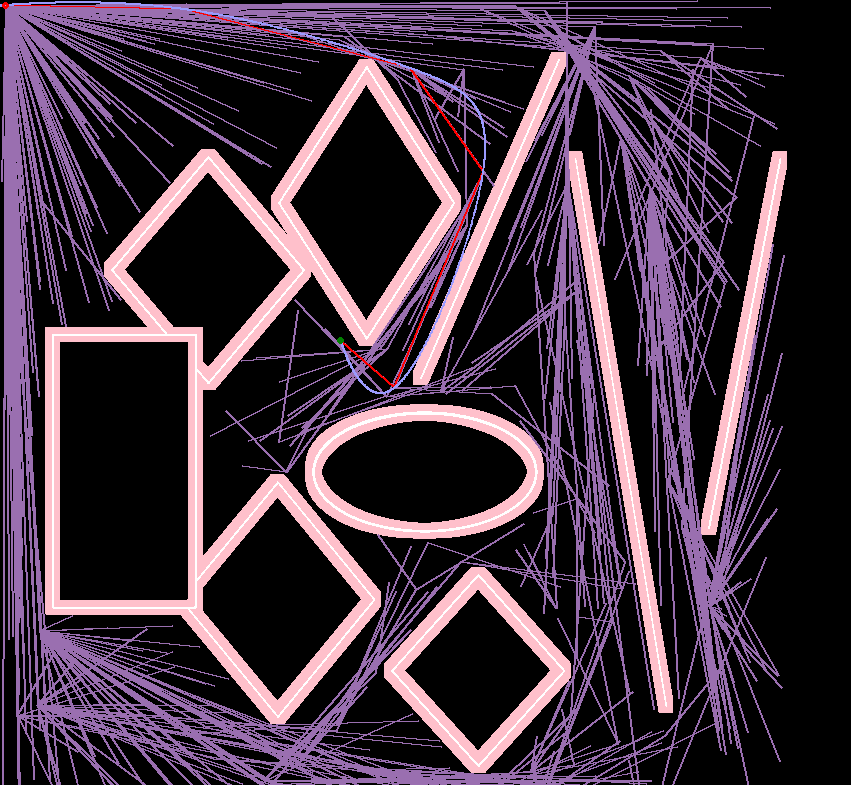
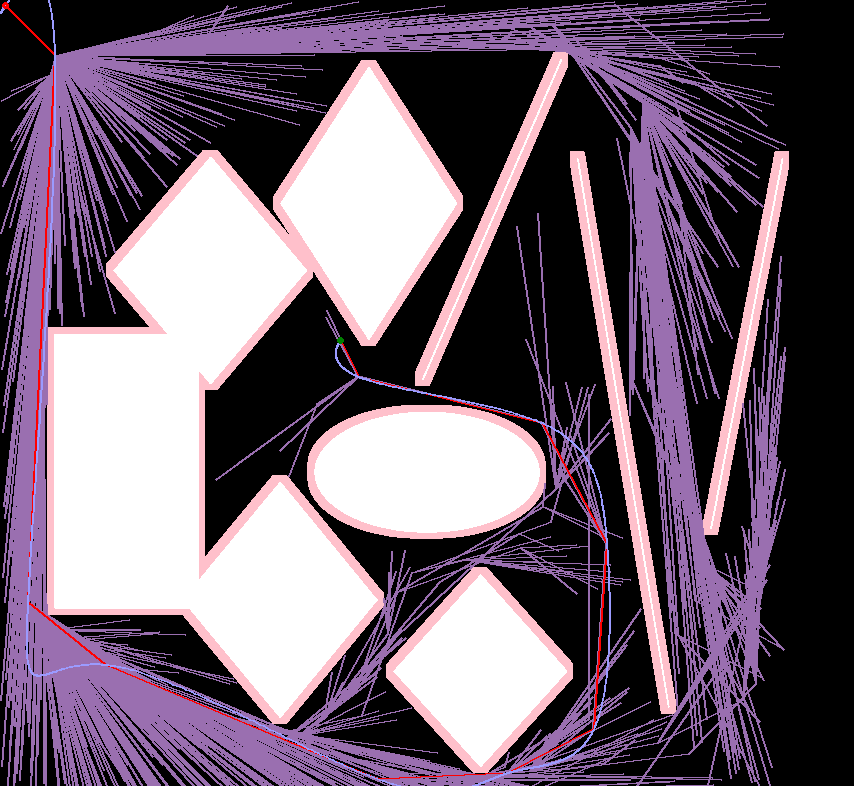
dumb angle check for global planner

diff --git a/local_sim/path.py b/local_sim/path.py
@@ -1,10 +1,7 @@
-import math
-
 from casadi import *
-from matplotlib import pyplot as plt
 
+import config
 from local_sim.kinematics.cartesian import CartesianKinematics
-from local_sim.obstacle import Obstacle
 
 
 class LocalPlanner:
@@ -13,8 +10,6 @@ class LocalPlanner:
         self.dT = dT
         self.T = T
         self.N = int(T / dT)
-
-        self.obstacle_padding = .5
 
     def find_path(self, current_state, end_state, total_dist, obstacles):
         # Decision variables
@@ -28,27 +23,11 @@ class LocalPlanner:
             cost += (state[0, i] - end_state[0]) ** 2
             cost += (state[1, i] - end_state[1]) ** 2
 
-            # Angle the velocity towards the next waypoint or set vel to zero if end node
             dist = (end_state[1] - current_state[1]) ** 2 + (end_state[0] - current_state[0]) ** 2
             dist_ratio = ((total_dist - dist) / total_dist) ** 4
 
             cost += dist_ratio * state[2, i] ** 2
             cost += dist_ratio * state[3, i] ** 2
-
-            # print(dist)
-            # print(total_dist)
-            # print(dist_ratio)
-            #
-            # if next_waypoint is None:
-            #     cost += dist_ratio * state[2, i] ** 2
-            #     cost += dist_ratio * state[3, i] ** 2
-            # else:
-            #     angle = math.atan2(next_waypoint[1] - end_state[1], next_waypoint[0] - end_state[0])
-            #     x = 2.5 * cos(angle)
-            #     y = 2.5 * sin(angle)
-            #
-            #     cost += 1 * dist_ratio * (state[2, i] - x) ** 2
-            #     cost += 1 * dist_ratio * (state[3, i] - y) ** 2
 
         for i in range(self.N - 1):
             cost += u[0, i] ** 2
@@ -62,12 +41,9 @@ class LocalPlanner:
 
         for obstacle in obstacles:
             for i in range(self.N):
-                x = state[0, i]
-                y = state[1, i]
-                dist_from_center = (x - obstacle.x) ** 2 + (y - obstacle.y) ** 2
-
                 self.optimizer.subject_to(
-                    dist_from_center >= (obstacle.radius ** 2 + self.obstacle_padding ** 2))
+                    (state[0, i] - obstacle.x) ** 2 + (state[1, i] - obstacle.y) ** 2 >= (
+                            obstacle.radius ** 2 + config.padding ** 2))
 
         for i in range(4):
             self.optimizer.subject_to(state[i, 0] == current_state[i])
@@ -79,8 +55,8 @@ class LocalPlanner:
 
         # Apply acceleration bounds
         for i in range(self.N - 1):
-            self.optimizer.subject_to(self.optimizer.bounded(-10, u[0, i], 10))
-            self.optimizer.subject_to(self.optimizer.bounded(-10, u[1, i], 10))
+            self.optimizer.subject_to(self.optimizer.bounded(-30, u[0, i], 10))
+            self.optimizer.subject_to(self.optimizer.bounded(-30, u[1, i], 10))
 
         # Calculate solution
         opts = {'ipopt.print_level': 0, 'print_time': 0, 'ipopt.sb': 'yes'}
@@ -100,58 +76,3 @@ class LocalPlanner:
             path.append([x_s[i], y_s[i], vx_s[i], vy_s[i]])
 
         return path
-
-
-# start_state = [0, 0, 0, 0]
-# end_state = [4, 4, 0, 0]
-#
-# obstacles = [
-#     Obstacle(1.5, 1.5, 1),
-#     Obstacle(2.5, 2.5, .3),
-#     Obstacle(3, 2, .5),
-#     Obstacle(2.5, 4, .3)
-# ]
-
-# planner = LocalPlanner(.05, 10)
-# solution, state, u = planner.find_path(start_state, end_state, obstacles)
-#
-# x_s, y_s, vx_s, vy_s = solution.value(state)
-# ax_s, ay_s = solution.value(u)
-#
-# # Plot trajectory
-# plt.figure(figsize=(10, 6))
-# plt.subplot(2, 1, 1)
-# plt.plot(x_s, y_s, label='Trajectory')
-# plt.scatter(end_state[0], end_state[1], color='red', label='Obstacle')
-# plt.xlabel('X')
-# plt.ylabel('Y')
-# plt.title('Trajectory')
-# plt.legend()
-#
-# # Plot velocity profile
-# plt.subplot(2, 1, 2)
-# plt.plot(vx_s, label='X Velocity')
-# plt.plot(vy_s, label='Y Velocity')
-# plt.xlabel('Time Step')
-# plt.ylabel('Velocity')
-# plt.title('Velocity Profile')
-# plt.legend()
-#
-# plt.tight_layout()
-# plt.show()
-#
-# # Plot trajectory on a coordinate plane with obstacle
-# plt.figure(figsize=(8, 6))
-# plt.scatter(x_s, y_s, label='Trajectory', color='blue')
-# plt.scatter(end_state[0], end_state[1], label='Obstacle', color='red')
-# plt.xlabel('X')
-# plt.ylabel('Y')
-# plt.title('Trajectory with Obstacles')
-# plt.legend()
-# plt.grid(True)
-# plt.axis('equal')
-#
-# for obstacle in obstacles:
-#     obstacle.plot()
-#
-# plt.show()

diff --git a/global_sim/algorithm.py b/global_sim/algorithm.py
@@ -1,3 +1,4 @@
+import math
 import random
 import time
 
@@ -69,7 +70,33 @@ def initial_spawn_nodes(grid: Grid, start: Node, dist: int) -> NodeList:
     return valid_nodes
 
 
-def rrt_sid(grid: Grid, num_iters: int, start: Node, end: Node, dist: int, screen: pygame.Surface, out: str):
+def check_angle(prev_node: Node, node: Node, next_node: Node) -> bool:
+    """
+    Check if the angle between 2 lines is within the maximum turning angle of the vehicle.
+    """
+
+    vec_1 = (node[0] - prev_node[0], node[1] - prev_node[1])
+    vec_2 = (next_node[0] - node[0], next_node[1] - node[1])
+
+    dot_product = sum(x * y for x, y in zip(vec_1, vec_2))
+    magnitude_product = math.sqrt(sum(x ** 2 for x in vec_1)) * math.sqrt(sum(x ** 2 for x in vec_2))
+
+    if magnitude_product == 0 or dot_product == 0:
+        return False
+
+    try:
+        angle = abs(math.acos(dot_product / magnitude_product))
+    except:
+        return False
+
+    if angle > config.max_turning_angle:
+        return False
+
+    return True
+
+
+def rrt_sid(grid: Grid, num_iters: int, start: Node, end: Node, dist: int, screen: pygame.Surface,
+            out: str):
     """
     Custom version of Rapidly Exploring Random Tree (RRT) which continuously optimizes the node
     tree to minimize distance from the start node.
@@ -121,6 +148,7 @@ def rrt_sid(grid: Grid, num_iters: int, start: Node, end: Node, dist: int, scree
         for root in edges:
             sub_dist = euclidean_distance(root, valid_node) + min_distance[root]
             if sub_dist < best_dist \
+                    and check_angle(edges[root], root, valid_node) \
                     and not line_cross_check(grid, root, valid_node):
                 best = root
                 best_dist = sub_dist
@@ -146,6 +174,7 @@ def rrt_sid(grid: Grid, num_iters: int, start: Node, end: Node, dist: int, scree
     for root in edges:
         sub_dist = euclidean_distance(root, end) + min_distance[root]
         if sub_dist < best_dist \
+                and check_angle(edges[root], root, end) \
                 and not line_cross_check(grid, root, end):
             best = root
             best_dist = sub_dist
@@ -161,7 +190,8 @@ def rrt_sid(grid: Grid, num_iters: int, start: Node, end: Node, dist: int, scree
     return extract_path_from_dict(edges, start, end)
 
 
-def rrt_star(grid: Grid, num_iters: int, start: Node, end: Node, dist: int, screen=None, out: str = ""):
+def rrt_star(grid: Grid, num_iters: int, start: Node, end: Node, dist: int, screen=None,
+             out: str = ""):
     grid[start[0]][start[1]] = 3
     grid[end[0]][end[1]] = 4
 
@@ -177,7 +207,8 @@ def rrt_star(grid: Grid, num_iters: int, start: Node, end: Node, dist: int, scre
         nearest_node, nearest_node_cost = nearest_neighbor(valid_node, nodes, cost)
 
         new_node = steer(nearest_node, valid_node, dist)
-        if new_node is not None and not (check_collision(grid, new_node) or line_cross_check(grid, nearest_node, new_node)):
+        if new_node is not None and not (
+                check_collision(grid, new_node) or line_cross_check(grid, nearest_node, new_node)):
             near_nodes = near_neighbors(new_node, nodes, max_dist=dist)
             min_cost_node = nearest_node
             min_cost = nearest_node_cost + euclidean_distance(nearest_node, new_node)
@@ -195,7 +226,8 @@ def rrt_star(grid: Grid, num_iters: int, start: Node, end: Node, dist: int, scre
             # Rewiring step
             for near_node in near_nodes:
                 potential_cost = cost[new_node] + euclidean_distance(new_node, near_node)
-                if potential_cost < cost[near_node] and not line_cross_check(grid, new_node, near_node):
+                if potential_cost < cost[near_node] and not line_cross_check(grid, new_node,
+                                                                             near_node):
                     nodes[near_node] = new_node
                     edges_as_list.append((new_node, near_node))
                     cost[near_node] = potential_cost

diff --git a/main.py b/main.py
@@ -6,7 +6,7 @@ from local_sim.obstacle import Obstacle
 from local_sim.path import LocalPlanner
 from global_sim.algorithm import rrt_sid, rrt_star
 from type_hints.types import Grid
-from utils.render import image_to_grid, render_local_path_on_image
+from utils.render import image_to_grid, render_local_path_on_image, render_circle_on_image
 import config
 
 start_time = time.time()
@@ -14,9 +14,9 @@ start_time = time.time()
 grid: Grid = image_to_grid(config.map_path, reverse_colors=config.map_bw_reverse)
 
 screen = None
-if config.debug:
-    pygame.init()
-    screen = pygame.display.set_mode((len(grid[0]), len(grid)))
+# if config.debug:
+pygame.init()
+screen = pygame.display.set_mode((len(grid[0]), len(grid)))
 
 algo_options = {
     "rrt_sid": rrt_sid,
@@ -44,7 +44,12 @@ render_local_path_on_image([], config.out_path, 'test.png')
 total_dist = ((target_waypoint[0] - current_position[0]) ** 2
               + (target_waypoint[1] - current_position[1]) ** 2)
 
-obstacles = []
+obstacles = [Obstacle(100, 20, 10), Obstacle(200, 30, 15)]
+# obstacles = []
+
+for obstacle in obstacles:
+    render_circle_on_image(obstacle, 'test.png')
+
 search_radius = 10
 
 # Search in area near waypoints for obstacles
@@ -54,8 +59,17 @@ for i in range(-search_radius, search_radius, 3):
             if grid[current_position[0] + i][current_position[1] + j] == 1:
                 obstacles.append(Obstacle(current_position[0] + i, current_position[1] + j, .5))
 
+
+def check_if_path_through_waypoint(path, waypoint, radius):
+    for pos in path:
+        if (pos[0] - waypoint[0]) ** 2 + (pos[1] - waypoint[1]) ** 2 <= radius ** 2:
+            return True
+    else:
+        return False
+
+
 while (current_position[0], current_position[1]) != (global_path[-1][0], global_path[-1][1]):
-    local_planner = LocalPlanner(.05, .25)
+    local_planner = LocalPlanner(.01, 1)
 
     solution, state, u = local_planner.find_path(current_position, target_waypoint, total_dist, obstacles)
     path = local_planner.get_path_coords(solution, state)
@@ -67,9 +81,7 @@ while (current_position[0], current_position[1]) != (global_path[-1][0], global_
             (global_path[-1][0], global_path[-1][1])) else 5
 
     if (
-            (current_position[0] - target_waypoint[0]) ** 2
-            + (current_position[1] - target_waypoint[1]) ** 2
-            < threshold ** 2
+            check_if_path_through_waypoint(path, target_waypoint, threshold)
     ):
         if global_path.index(target_waypoint) + 1 < len(global_path):
             target_waypoint = global_path[global_path.index(target_waypoint) + 1]
@@ -80,9 +92,9 @@ while (current_position[0], current_position[1]) != (global_path[-1][0], global_
                                                                          current_position[1])) ** 2
 
     render_local_path_on_image(path, 'test.png', 'test.png')
-    if config.debug:
-        imp = pygame.image.load('test.png').convert()
-        screen.blit(imp, (0, 0))
-        pygame.display.flip()
+    # if config.debug:
+    imp = pygame.image.load('test.png').convert()
+    screen.blit(imp, (0, 0))
+    pygame.display.flip()
 
 input("COMPLETE: %s seconds" % (time.time() - start_time))

diff --git a/config.py b/config.py
@@ -1,25 +1,32 @@
+import math
+
 from type_hints.types import Node
 
 # Algorithm - rrt_star or rrt_sid
 algo: str = "rrt_sid"
 
-iters: int = 800
+iters: int = 1500
 start_node: Node = (5, 5)
 end_node: Node = (340, 340)
 initial_generate_dist: int = 50  # Sometimes, increasing leads to reaching farther areas
 padding: int = 7
+
+# Vehicle
+max_turning_angle: float = math.pi / 3  # In radians
+vehicle_length: float = 10  # In pixels
+vehicle_width: float = 5  # In pixels
 
 # Render
 map_bw_reverse: bool = False  # Reverse black and white in obstacle readings
 display_end: bool = False  # Display final image when program finished
 
 # Debug
-debug: bool = True  # Run while program running
+debug: bool = False  # Run while program running
 debug_time: float = 0  # Time to wait after every frame displayed in seconds
 debug_iters: int = 50  # Display frame ever 'debug_iters' iters
 
 # Map Path
-map_path = 'maps/img_3.png'
+map_path = 'maps/img_6.png'
 
 # Output image directory
 out_path = 'global_sim/out/test.png'

diff --git a/utils/render.py b/utils/render.py
@@ -248,3 +248,15 @@ def render_local_path_on_image(path, input_image, output_image):
         draw.line([start, end], fill=green, width=4)
 
     img.save(output_image)
+
+
+def render_circle_on_image(obstacle, path):
+    img = Image.open(path)
+    draw = ImageDraw.Draw(img)
+
+    box = (obstacle.x - obstacle.radius, obstacle.y - obstacle.radius, obstacle.x +
+        obstacle.radius, obstacle.y + obstacle.radius)
+
+    draw.ellipse(box, blue, blue)
+
+    img.save(path)

diff --git a/local_sim/obstacle.py b/local_sim/obstacle.py
@@ -10,5 +10,5 @@ class Obstacle:
         self.radius = radius
 
     def plot(self):
-        circle = plt.Circle((self.x, self.y), self.radius, color='r', fill=False)
+        circle = plt.Circle((self.x, self.y), self.radius, color='r', fill=True)
         plt.gca().add_patch(circle)
